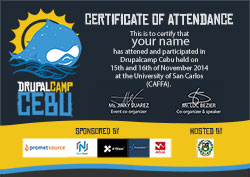
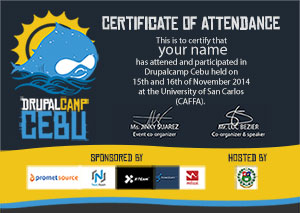
Wrote back the chnages in views Attendee Certificate that was reverted accidentally. Ticket #146.

diff --git a/docroot/sites/all/themes/drupalcampcebu2014/public/css/style.css b/docroot/sites/all/themes/drupalcampcebu2014/public/css/style.css
@@ -904,14 +904,13 @@ span.file a {
 }
 /* line 112, ../sass/partials/_speakers.scss */
 .view-attendee-certificate .field-content {
-  margin-top: 225px;
+  margin-top: 250px;
 }
 /* line 114, ../sass/partials/_speakers.scss */
 .view-attendee-certificate .field-content a {
   font-size: 18px;
   background: url("../images/template-drupalcampcebu.jpg") no-repeat;
-  padding-top: 190px;
-  padding-right: 25px;
+  padding-top: 220px;
 }
 
 /* line 1, ../sass/partials/_sessions.scss */

diff --git a/docroot/sites/all/themes/drupalcampcebu2014/public/sass/partials/_speakers.scss b/docroot/sites/all/themes/drupalcampcebu2014/public/sass/partials/_speakers.scss
@@ -110,12 +110,11 @@ span.file {
 .view-attendee-certificate {
   text-align: center;
   .field-content {
-    margin-top: 225px;
+    margin-top: 250px;
     a {
       font-size: 18px;
       background: url('../images/template-drupalcampcebu.jpg') no-repeat;
-      padding-top: 190px;
-      padding-right: 25px;
+      padding-top: 220px;
     }
   }
 }
